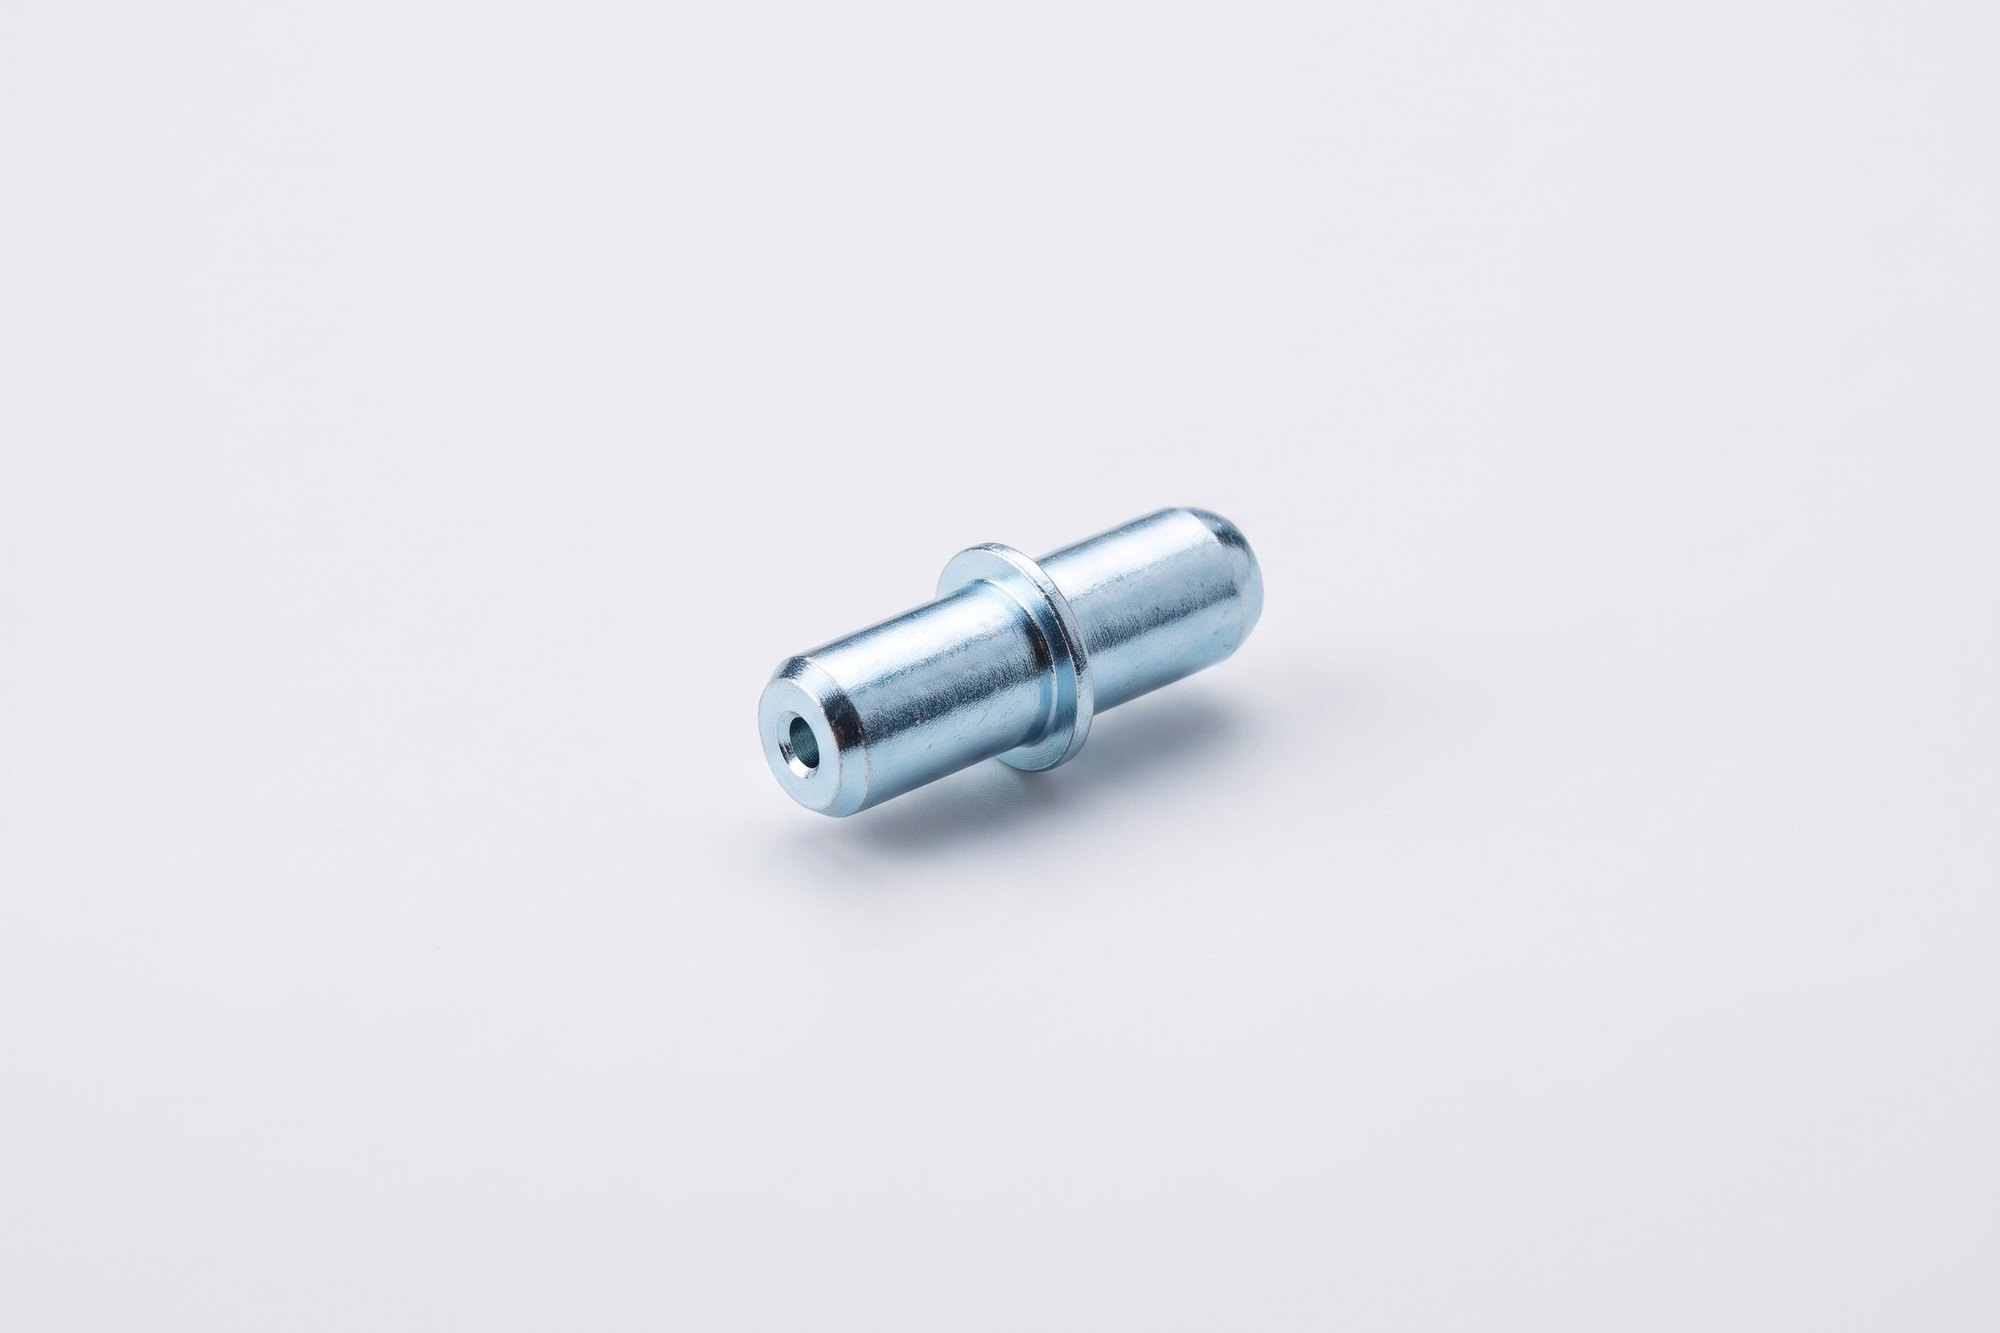
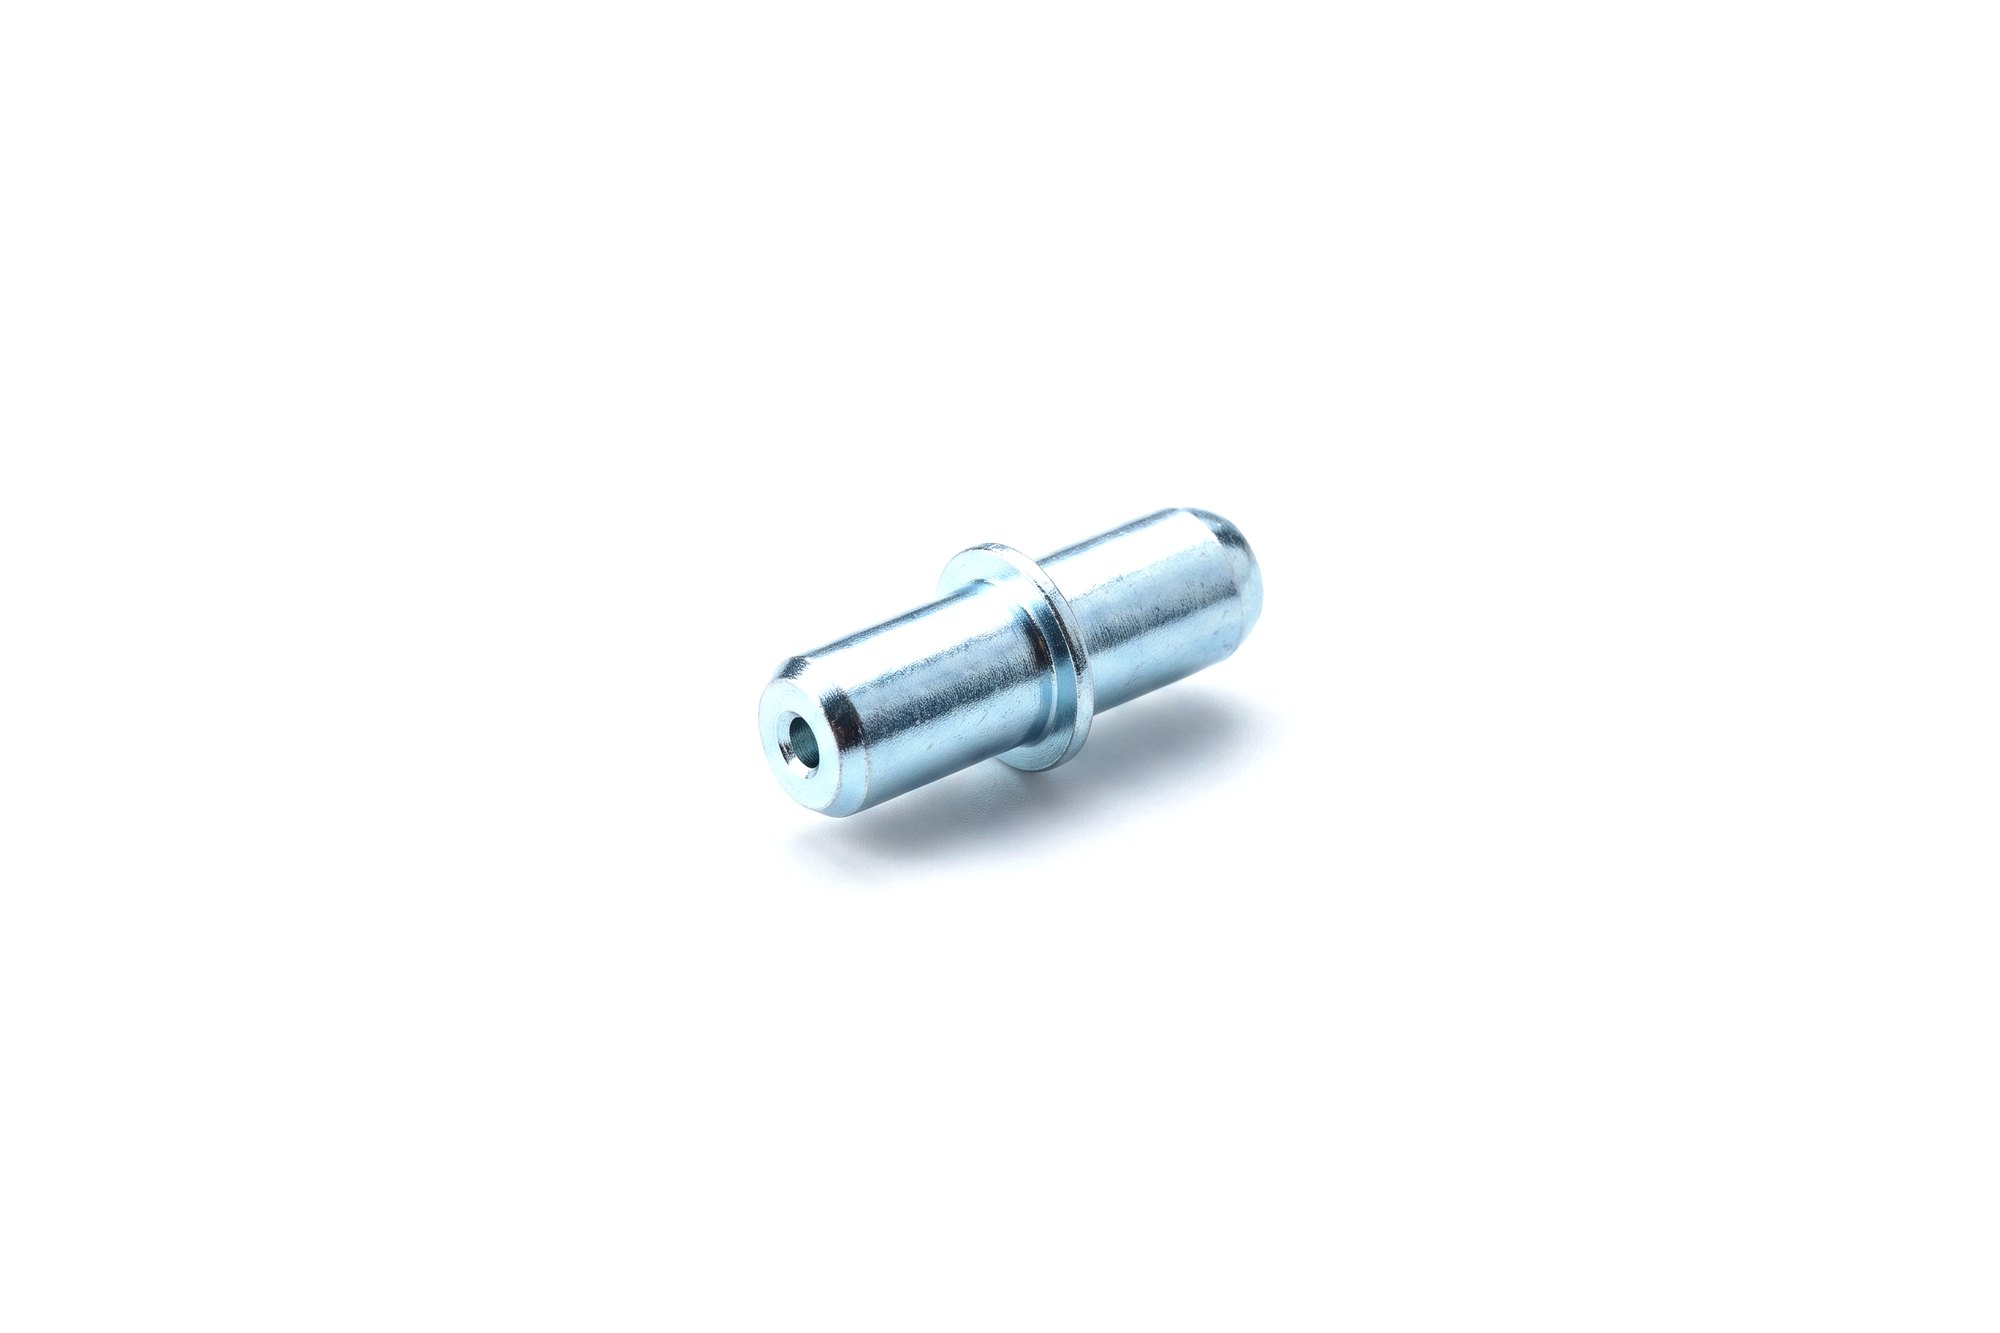
Bespoke: bela podlaga slik, nova ploščica izdelkov (pokončno), manjša škatla na sredini
Claude-Session: https://claude.ai/code/session_0134TA41qG8N8xeFf6GBS414

diff --git a/app/globals.css b/app/globals.css
@@ -3527,7 +3527,7 @@ a.b2b-profil:hover { background: #a50d26; }
 /* bespoke: kaj izdelamo po meri */
 .bs-kaj { display: grid; grid-template-columns: repeat(3, minmax(0, 1fr)); gap: 20px; }
 .bs-k { background: #fff; border: 1px solid var(--color-line); border-top: 4px solid var(--color-red); padding: 18px 20px 22px; }
-.bs-im { position: relative; aspect-ratio: 16 / 10; margin-bottom: 14px; background: var(--color-mist); }
+.bs-im { position: relative; aspect-ratio: 16 / 10; margin-bottom: 14px; background: #fff; }
 .bs-k h3 { font-size: 17px; font-weight: 800; text-transform: uppercase; }
 .bs-k p { margin-top: 8px; color: var(--color-muted); font-size: 14.5px; }
 @media (max-width: 900px) { .bs-kaj { grid-template-columns: minmax(0, 1fr); } }

diff --git a/app/(splet)/bespoke/page.js b/app/(splet)/bespoke/page.js
@@ -24,12 +24,12 @@ const kaj = [
   {
     naziv: "Naši izdelki v vaši izvedbi",
     opis: "Jeklena sidra, udarni vijaki, zidni vložki in perforiran trak v dimenziji, materialu ali pakiranju, ki ga potrebujete.",
-    slika: "/slike/proizvodnja/hero-izdelki.png",
+    slika: "/slike/proizvodnja/bespoke-izdelki.jpg",
   },
   {
     naziv: "V vaši embalaži",
     opis: "Pakiranje v nevtralne bele škatle z vašo nalepko ali v embalažo z vašim logotipom (private label).",
-    slika: "/slike/znamke/asfix-afr41-private-label.png",
+    slika: "/slike/znamke/bespoke-private-label.jpg",
   },
 ];
 
